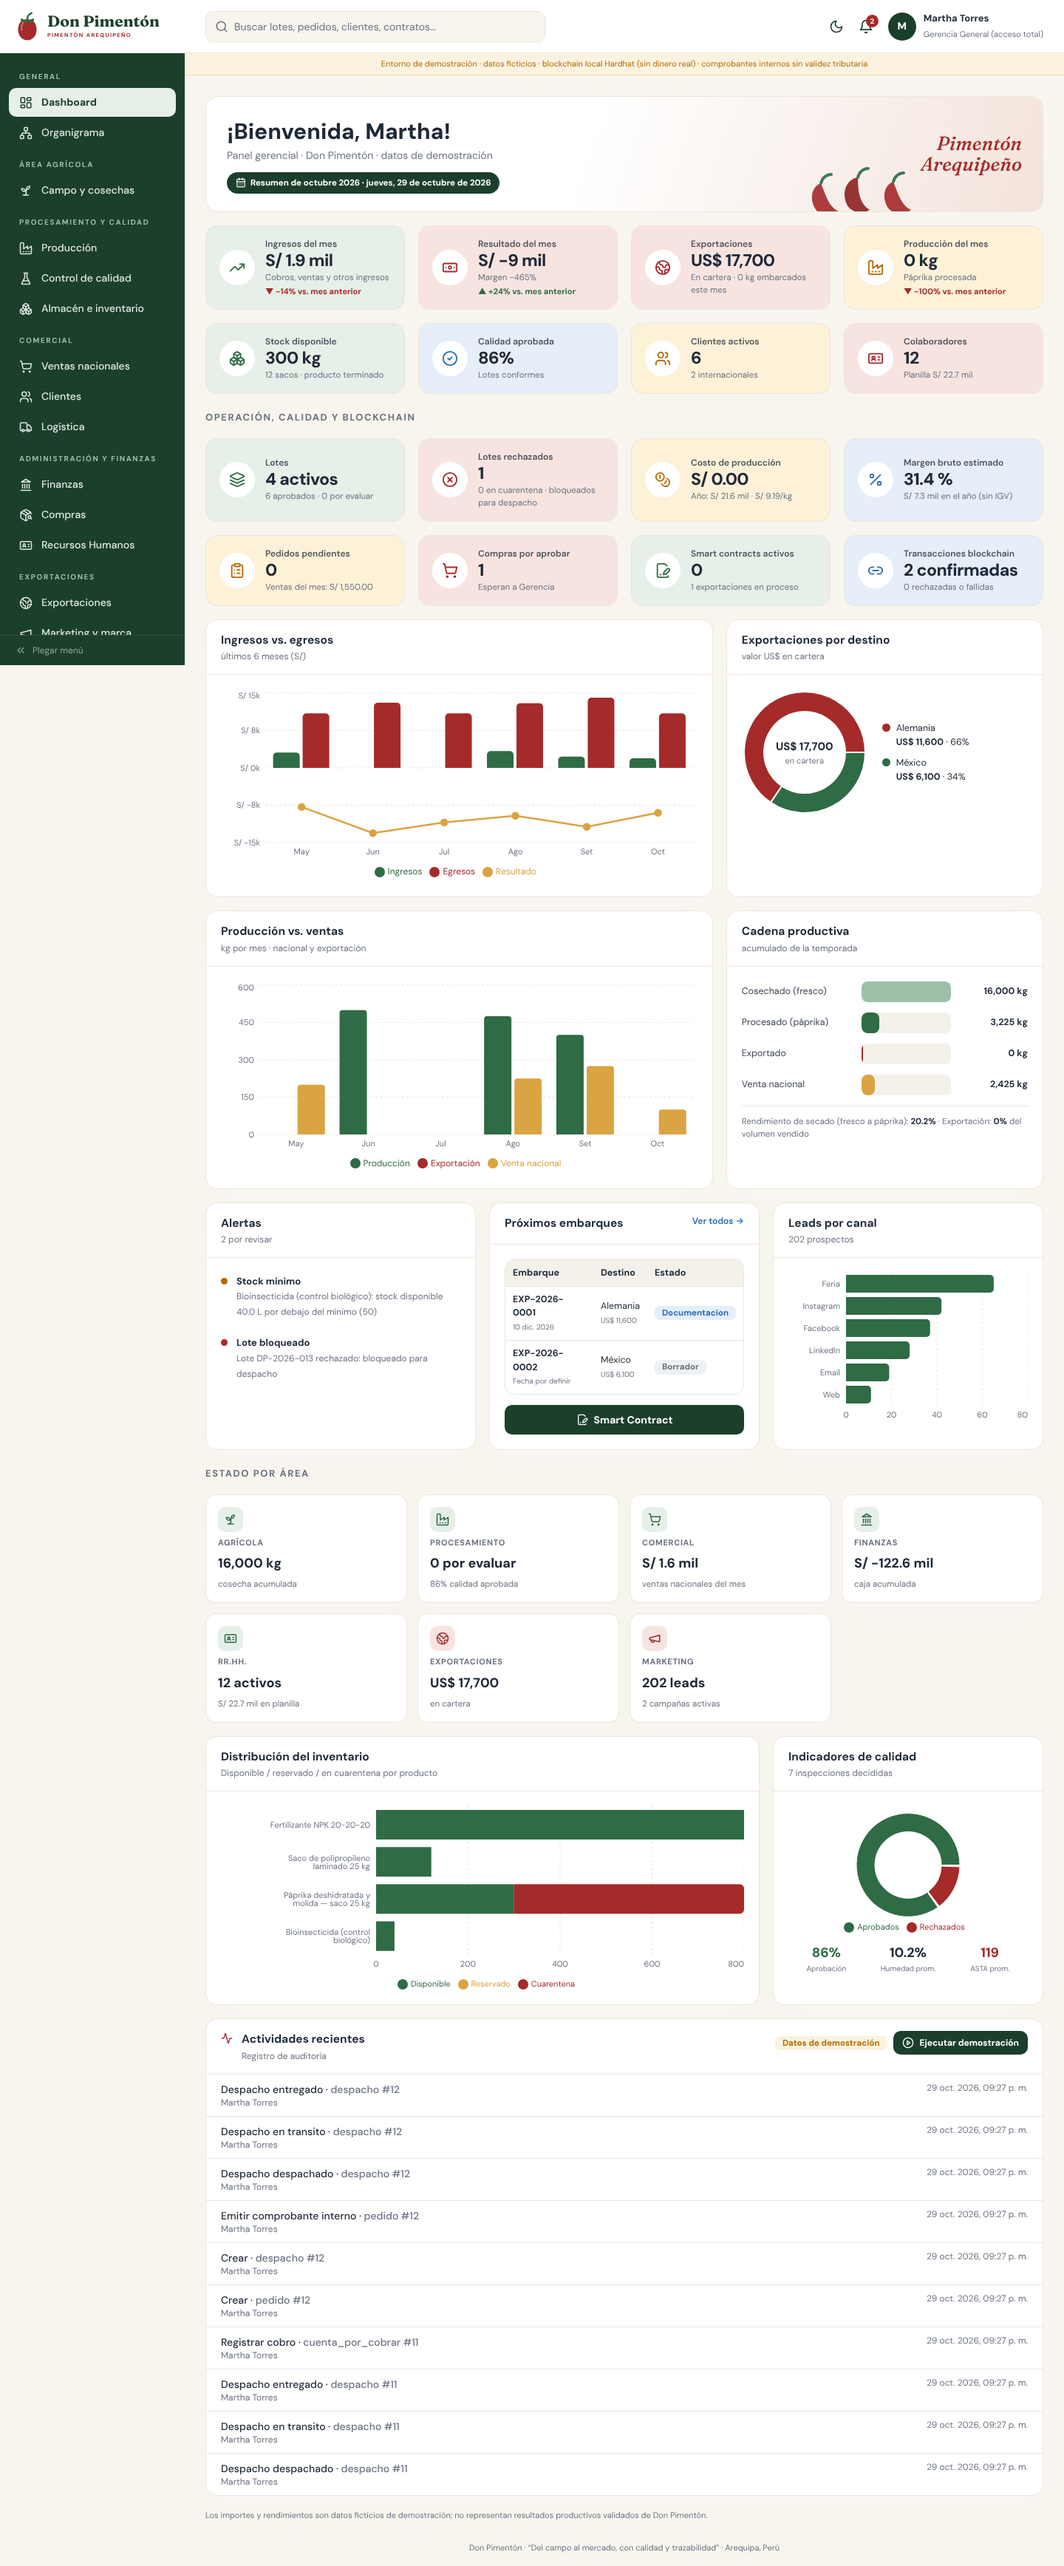
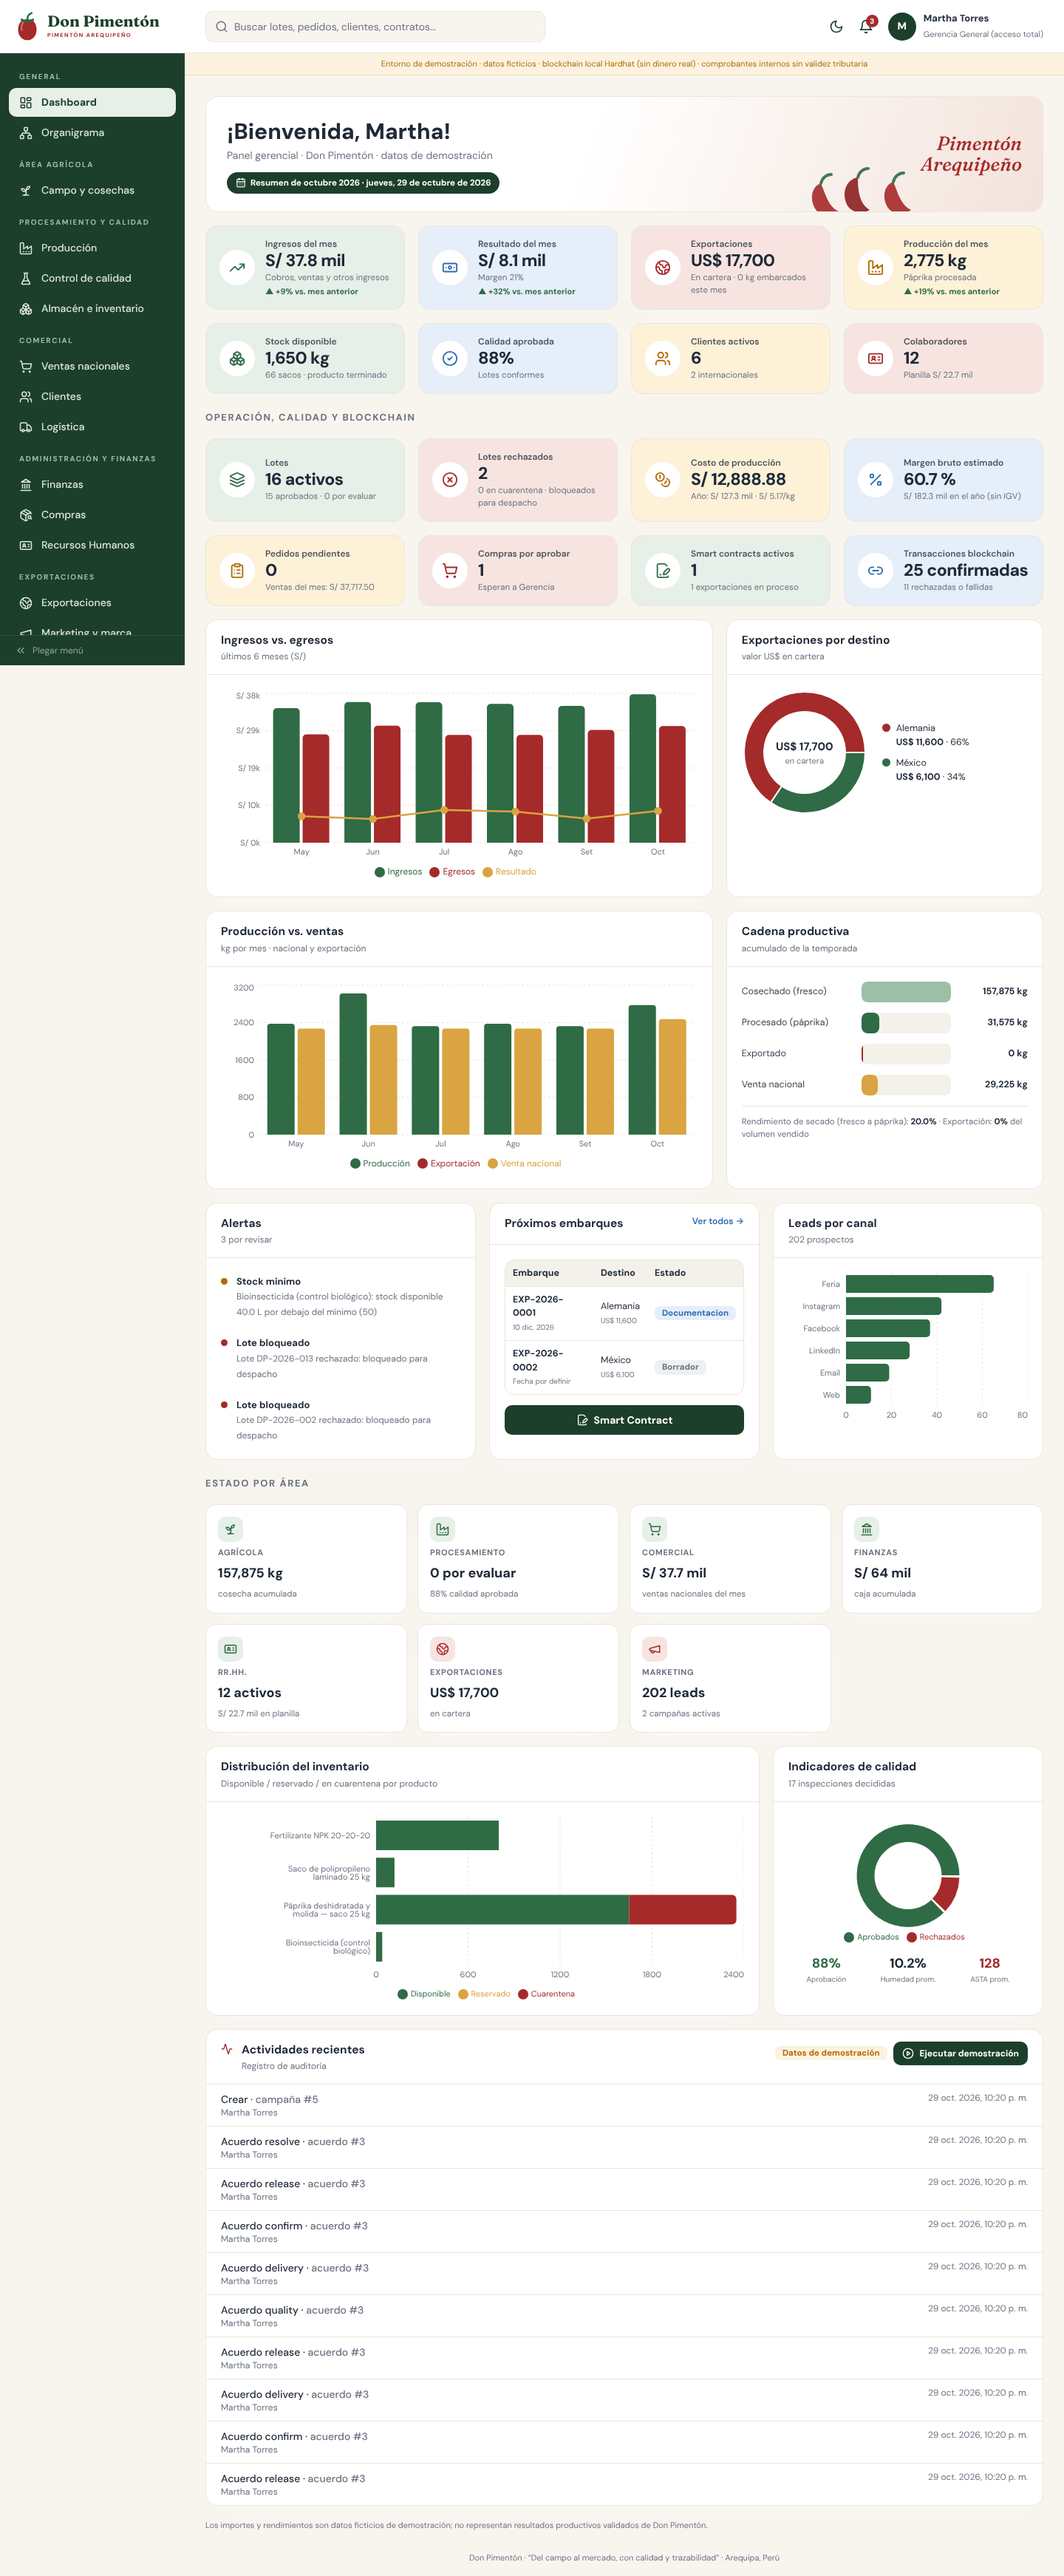
Datos de demostración v2: empresa en ganancia (~15 %)
- Una cosecha mensual (oct-2025 a oct-2026) con ventas y cobros cada mes
- Costos de planta y campaña a escala, planilla alineada con RR.HH.
- Todos los meses operativos en ganancia; margen neto ~15 %
- Recarga automática única en bases con datos v1 (Render) al iniciar

Claude-Session: https://claude.ai/code/session_01K9gDCHrpAgDNzKubQ7Fimb

diff --git a/backend/src/seed/seedData.ts b/backend/src/seed/seedData.ts
@@ -16,6 +16,9 @@ import { createDispatch, advanceDispatch } from "../modules/logistics";
 import { applyMovement } from "../modules/inventory.service";
 
 // En un despliegue público defina DEMO_PASSWORD para no usar la contraseña documentada.
+/** Versión de los datos demo: al subirla, las bases existentes (p. ej. Render) se recargan una vez al iniciar. */
+export const DEMO_DATA_VERSION = 2;
+
 export const DEMO_PASSWORD = process.env.DEMO_PASSWORD || "DonPimenton#2026";
 
 /** Usuarios demo: solo la Gerencia General es una persona; el resto se identifica por su área. */
@@ -112,6 +115,7 @@ export async function resetBusinessData(db: PrismaClient) {
 const d = (s: string) => new Date(s);
 
 export async function seedBaseData(db: PrismaClient) {
+  await db.setting.upsert({ where: { key: "demo.dataVersion" }, create: { key: "demo.dataVersion", value: DEMO_DATA_VERSION }, update: { value: DEMO_DATA_VERSION } });
   const admin = await db.user.findUniqueOrThrow({ where: { email: "admin@donpimenton.pe" } });
   const uid = admin.id;
   const area = async (code: string) => (await db.area.findUniqueOrThrow({ where: { code } })).id;
@@ -191,8 +195,8 @@ export async function seedBaseData(db: PrismaClient) {
   }
   for (let m = 1; m <= 12; m++) {
     await db.budget.createMany({ data: [
-      { year: 2026, month: m, category: "VENTAS", type: "INGRESO", amountPen: 14000 },
-      { year: 2026, month: m, category: "COSTOS_OPERATIVOS", type: "EGRESO", amountPen: 9000 },
+      { year: 2026, month: m, category: "VENTAS", type: "INGRESO", amountPen: 36000 },
+      { year: 2026, month: m, category: "COSTOS_OPERATIVOS", type: "EGRESO", amountPen: 30000 },
     ] });
   }
 
@@ -205,16 +209,16 @@ export async function seedBaseData(db: PrismaClient) {
 
   // ---------------------------------------------------------- histórico de producción y ventas
   const campaigns = [
-    { code: "CAM-2025-001", parcel: "PAR-002", variety: "Papri King", sow: "2025-05-20", est: "2025-11-15", yieldKg: 4500 },
-    { code: "CAM-2025-002", parcel: "PAR-001", variety: "Papri King", sow: "2025-09-01", est: "2026-02-20", yieldKg: 5000 },
-    { code: "CAM-2026-001", parcel: "PAR-002", variety: "Sonora", sow: "2026-01-10", est: "2026-07-01", yieldKg: 7000 },
+    { code: "CAM-2025-001", parcel: "PAR-002", variety: "Papri King", sow: "2025-05-20", est: "2025-11-01", yieldKg: 38000 },
+    { code: "CAM-2025-002", parcel: "PAR-001", variety: "Papri King", sow: "2025-09-01", est: "2026-02-01", yieldKg: 52000 },
+    { code: "CAM-2026-001", parcel: "PAR-002", variety: "Sonora", sow: "2026-01-10", est: "2026-06-01", yieldKg: 62000 },
   ];
   const campId: Record<string, number> = {};
   for (const c of campaigns) {
     const camp = await db.campaign.create({ data: { code: c.code, parcelId: parcel[c.parcel], variety: c.variety, sowingDate: d(c.sow), estHarvestDate: d(c.est), estimatedYieldKg: c.yieldKg, status: "EN_CURSO" } });
     campId[c.code] = camp.id;
     const base = new Date(c.sow);
-    const acts: [any, number, string, number][] = [["SIEMBRA", 0, "Trasplante", 900], ["RIEGO", 30, "Riego por gravedad", 450], ["FERTILIZACION", 50, "Fertilización NPK", 1100], ["CONTROL_PLAGAS", 80, "Control biológico", 600], ["MANTENIMIENTO", 100, "Deshierbo y mantenimiento de canales", 500]];
+    const acts: [any, number, string, number][] = [["SIEMBRA", 0, "Trasplante", 2700], ["RIEGO", 30, "Riego por gravedad", 1350], ["FERTILIZACION", 50, "Fertilización NPK", 3300], ["CONTROL_PLAGAS", 80, "Control biológico", 1800], ["MANTENIMIENTO", 100, "Deshierbo y mantenimiento de canales", 1500]];
     for (const [type, off, desc, cost] of acts) {
       const date = new Date(base.getTime() + off * 86400000);
       const a = await db.agriActivity.create({ data: { campaignId: camp.id, type, date, description: desc, responsible: "Área Agrícola", cost } });
@@ -224,15 +228,39 @@ export async function seedBaseData(db: PrismaClient) {
 
   type Batch = { camp: string; raw: string; lot: string; date: string; rawKg: number; finalKg: number; approve: boolean; sales: [string, number, number, string, boolean][] };
   // sales: [cliente, sacos, precio por kg, fecha, cobrado]
-  const batches: Batch[] = [
-    { camp: "CAM-2025-001", raw: "MP-2025-021", lot: "DP-2025-021", date: "2025-11-10", rawKg: 2400, finalKg: 475, approve: true, sales: [["CLI-0002", 8, 14.5, "2025-11-25", true], ["CLI-0004", 10, 14.8, "2025-12-03", true]] },
-    { camp: "CAM-2025-001", raw: "MP-2025-022", lot: "DP-2025-022", date: "2025-12-06", rawKg: 2000, finalKg: 400, approve: true, sales: [["CLI-0003", 6, 15, "2025-12-20", true], ["CLI-0002", 10, 14.5, "2026-01-12", true]] },
-    { camp: "CAM-2025-002", raw: "MP-2026-011", lot: "DP-2026-011", date: "2026-02-15", rawKg: 2600, finalKg: 525, approve: true, sales: [["CLI-0004", 12, 15, "2026-03-02", true], ["CLI-0001", 9, 15, "2026-03-18", true]] },
-    { camp: "CAM-2025-002", raw: "MP-2026-012", lot: "DP-2026-012", date: "2026-03-20", rawKg: 2200, finalKg: 450, approve: true, sales: [["CLI-0002", 10, 15.2, "2026-04-08", true], ["CLI-0003", 8, 15.5, "2026-05-06", true]] },
-    { camp: "CAM-2026-001", raw: "MP-2026-013", lot: "DP-2026-013", date: "2026-06-18", rawKg: 2500, finalKg: 500, approve: false, sales: [] },
-    { camp: "CAM-2026-001", raw: "MP-2026-014", lot: "DP-2026-014", date: "2026-07-25", rawKg: 2300, finalKg: 475, approve: true, sales: [["CLI-0004", 9, 15, "2026-08-10", true], ["CLI-0001", 6, 15, "2026-09-02", true]] },
-    { camp: "CAM-2026-001", raw: "MP-2026-015", lot: "DP-2026-015", date: "2026-09-05", rawKg: 2000, finalKg: 400, approve: true, sales: [["CLI-0002", 5, 15.5, "2026-09-22", true], ["CLI-0004", 4, 15.5, "2026-10-12", false]] },
+  // Una cosecha mensual (~13 t de fresco → ~2.6 t de páprika); cada lote se vende en 3 pedidos durante el mes siguiente.
+  // [lote MP, lote PT, sacos producidos]; una cosecha el día 3 de cada mes (oct-2025 → oct-2026) → cobros todos los meses
+  const lots: [string, string, number][] = [
+    ["MP-2025-021", "DP-2025-021", 93], ["MP-2025-022", "DP-2025-022", 95], ["MP-2025-023", "DP-2025-023", 91],
+    ["MP-2026-011", "DP-2026-011", 95], ["MP-2026-012", "DP-2026-012", 97], ["MP-2026-016", "DP-2026-016", 93],
+    ["MP-2026-017", "DP-2026-017", 91], ["MP-2026-014", "DP-2026-014", 95], ["MP-2026-018", "DP-2026-018", 97],
+    ["MP-2026-019", "DP-2026-019", 93], ["MP-2026-020", "DP-2026-020", 95], ["MP-2026-015", "DP-2026-015", 93], ["MP-2026-010", "DP-2026-010", 95],
   ];
+  const campaignFor = (iso: string) => (iso < "2026-01-15" ? "CAM-2025-001" : iso < "2026-06-01" ? "CAM-2025-002" : "CAM-2026-001");
+  const plan: [string, string, string, string, number, boolean][] = lots.map(([raw, lot, sacks], i) => {
+    const date = new Date(Date.UTC(2025, 9 + i, 3)).toISOString().slice(0, 10);
+    return [campaignFor(date), raw, lot, date, sacks, true];
+  });
+  // lote rechazado por Calidad (ejemplo de bloqueo): pequeño, sin ventas
+  plan.splice(9, 0, ["CAM-2026-001", "MP-2026-013", "DP-2026-013", "2026-06-12", 24, false]);
+  const buyers = ["CLI-0002", "CLI-0004", "CLI-0001", "CLI-0003"];
+  const addDays = (iso: string, n: number) => new Date(d(iso).getTime() + n * 86400000).toISOString().slice(0, 10);
+  let k = 0;
+  const batches: Batch[] = plan.map(([camp, raw, lot, date, sacks, approve], bi) => {
+    const sales: Batch["sales"] = [];
+    if (approve) {
+      // 3 pedidos (≈40 % / 33 % / 24 % del lote); queda un pequeño saldo en almacén
+      const parts = [Math.round(sacks * 0.4), Math.round(sacks * 0.33), Math.round(sacks * 0.24)];
+      [12, 20, 32].forEach((off, j) => {
+        const price = [15.0, 15.2, 15.4, 15.6][(k + j) % 4] + (bi % 3) * 0.1;
+        const when = addDays(date, off);
+        if (when > "2026-10-28") return; // no se registran ventas con fecha futura
+        sales.push([buyers[k % 4], parts[j], Math.round(price * 100) / 100, when, addDays(when, 10) <= "2026-10-28"]);
+        k++;
+      });
+    }
+    return { camp, raw, lot, date, rawKg: sacks * 25 * 5, finalKg: sacks * 25, approve, sales };
+  });
   let opN = 0;
   for (const b of batches) {
     const harvestDate = d(b.date);
@@ -246,7 +274,7 @@ export async function seedBaseData(db: PrismaClient) {
       await inTx((tx) => advanceStage(tx, order.id, { outputKg: Math.round(out), at, ...(i === 2 ? { temperatureC: 58 + (opN % 4), durationH: 28 + (opN % 5) } : {}) }, uid));
     }
     const end = new Date(start.getTime() + 8 * 86400000);
-    await inTx((tx) => completeOrder(tx, order.id, { finalWeightKg: b.finalKg, outputs: [{ quantityKg: b.finalKg, code: b.lot }], laborCost: Math.round(b.finalKg * 2.2), energyCost: Math.round(b.finalKg * 1.9), packagingCost: (b.finalKg / 25) * 2, otherCost: 60, expiryMonths: 18, at: end }, uid));
+    await inTx((tx) => completeOrder(tx, order.id, { finalWeightKg: b.finalKg, outputs: [{ quantityKg: b.finalKg, code: b.lot }], laborCost: Math.round(b.finalKg * 1.6), energyCost: Math.round(b.finalKg * 1.3), packagingCost: (b.finalKg / 25) * 2, otherCost: 150, expiryMonths: 18, at: end }, uid));
     const lot = await db.lot.findUniqueOrThrow({ where: { code: b.lot } });
     const qcAt = new Date(end.getTime() + 86400000);
     const insp = await inTx((tx) => createInspection(tx, b.approve
@@ -281,7 +309,7 @@ export async function seedBaseData(db: PrismaClient) {
   for (let i = 0; i < 12; i++) {
     const date = new Date(2025, 10 + i, 28);
     if (date > new Date()) break;
-    for (const [cat, desc, amount] of [["SERVICIOS", "Energía eléctrica planta (demo)", 650], ["ADMINISTRACION", "Servicios contables externos (demo)", 800], ["PLANILLA", "Planilla de personal permanente (demo)", 9500]] as const) {
+    for (const [cat, desc, amount] of [["SERVICIOS", "Energía eléctrica planta (demo)", 1200], ["ADMINISTRACION", "Servicios contables externos (demo)", 800], ["PLANILLA", "Planilla de personal permanente (demo)", 18200]] as const) {
       await db.financialTransaction.create({ data: { code: `FIN-G-${date.getFullYear()}${date.getMonth() + 1}-${cat}`, type: "EGRESO", category: cat, date, description: desc, amount, amountPen: amount, referenceType: "MANUAL", userId: uid } });
     }
   }

diff --git a/backend/prisma/seed.ts b/backend/prisma/seed.ts
@@ -1,10 +1,20 @@
 import { PrismaClient } from "@prisma/client";
-import { seedSecurity, resetBusinessData, seedBaseData, syncDemoIdentities, seedMarketing, DEMO_USERS, DEMO_PASSWORD } from "../src/seed/seedData";
+import { seedSecurity, resetBusinessData, seedBaseData, syncDemoIdentities, seedMarketing, DEMO_DATA_VERSION, DEMO_USERS, DEMO_PASSWORD } from "../src/seed/seedData";
 import { deployContracts } from "../src/blockchain/chain";
 
 const db = new PrismaClient();
 
 async function main() {
+  const version = Number((await db.setting.findUnique({ where: { key: "demo.dataVersion" } }))?.value ?? 1);
+  if (process.argv.includes("--if-empty") && (await db.lot.count()) > 0 && version < DEMO_DATA_VERSION) {
+    // datos demo de una versión anterior: se recargan una sola vez (como "Reiniciar demostración")
+    await seedSecurity(db);
+    await resetBusinessData(db);
+    await seedBaseData(db);
+    await db.auditLog.create({ data: { action: "DEMO_DATOS_ACTUALIZADOS", entity: "demo", details: { from: version, to: DEMO_DATA_VERSION } } });
+    console.log(`Datos de demostración actualizados de v${version} a v${DEMO_DATA_VERSION} (recarga única).`);
+    return;
+  }
   if (process.argv.includes("--if-empty") && (await db.lot.count()) > 0) {
     // base ya cargada (p. ej. en Render): solo se actualizan permisos, nombres y cargos
     await seedSecurity(db);

diff --git a/README.md b/README.md
@@ -180,6 +180,8 @@ Resultados de la última ejecución: [docs/REPORTE_PRUEBAS.md](docs/REPORTE_PRUE
 
 **Diseño:** identidad del panel de Gerencia (DM Sans + Fraunces, sidebar verde por áreas del organigrama, KPIs con tendencia vs. mes anterior, cadena productiva, exportaciones por destino, estado por área), páginas **Organigrama**, **Marketing y marca** y **Smart Contract** (hero conectado al panel blockchain real).
 
+**Datos de demostración (v2):** empresa rentable — una cosecha mensual (~12 t de fresco → ~2.3 t de páprika), ~37 pedidos al año a S/ 15–16 por kg, planilla alineada con RR.HH.; todos los meses operativos en ganancia y margen neto ≈ 15 % (≈ 18 % en los últimos 12 meses). Al desplegar sobre una base con datos v1 (p. ej. Render), se recargan automáticamente una sola vez.
+
 **Implementado y verificado:** autenticación y permisos por rol, auditoría, dashboard calculado desde la BD, gestión agrícola, producción por etapas con rendimiento y merma, calidad con especificaciones configurables por producto/cliente y COA con hash, inventarios (disponible/reservado/cuarentena, kardex, transferencias, ajustes autorizados, alertas, trazabilidad por lote, sacos de 25 kg), compras (solicitud → aprobación de Gerencia → OC → recepción → conformidad → pago), ventas (por kg o saco, impuestos configurables, reservas FEFO, comprobante interno, cobros), logística (5 estados, política de descuento configurable, evidencia de conformidad, devoluciones), exportaciones (directa/indirecta, Incoterms con versión, requisitos documentales que solo se verifican con evidencia), RR.HH. (datos sensibles enmascarados por rol), finanzas (PEN/USD con tipo de cambio, CxC/CxP, flujo de caja vs. presupuesto, costos por campaña, rentabilidad por lote), smart contracts reales, reportes PDF y Excel, modo claro/oscuro, diseño responsive.
 
 **Limitaciones honestas:**

diff --git a/docs/REPORTE_PRUEBAS.md b/docs/REPORTE_PRUEBAS.md
@@ -10,6 +10,8 @@ Ejecución del **29-oct-2026** en el entorno de desarrollo (Linux, Node.js 22.22
 | Compilación de producción del frontend | `next build` | correcta (26 rutas) |
 | Verificación de tipos | `tsc --noEmit` (backend y frontend) | sin errores |
 
+Datos de demostración v2 (empresa rentable): resultado neto ≈ 14.7 % sobre todo el histórico, todos los meses de oct-2025 a oct-2026 en ganancia; recarga única verificada en una simulación del contenedor de Render (v1 → v2 en el primer arranque, sin recarga en el segundo). Las suites volvieron a pasar con estos datos: 14/14 contratos, 38/38 API, 23/23 E2E.
+
 Durante las pruebas E2E se detectó y corrigió un defecto real: el correlativo de campañas `CAM-2026` colisionaba con un código sembrado ("Registro duplicado" al crear una campaña desde la interfaz). Se ajustó el seed y se agregó la prueba de regresión *"Correlativos > los códigos nuevos no colisionan con los datos sembrados"*.
 
 **No cubierto:** pruebas de carga y de concurrencia masiva, pentesting, compatibilidad con navegadores distintos de Chromium y ejecución con Docker Compose (sin daemon Docker en el entorno).
